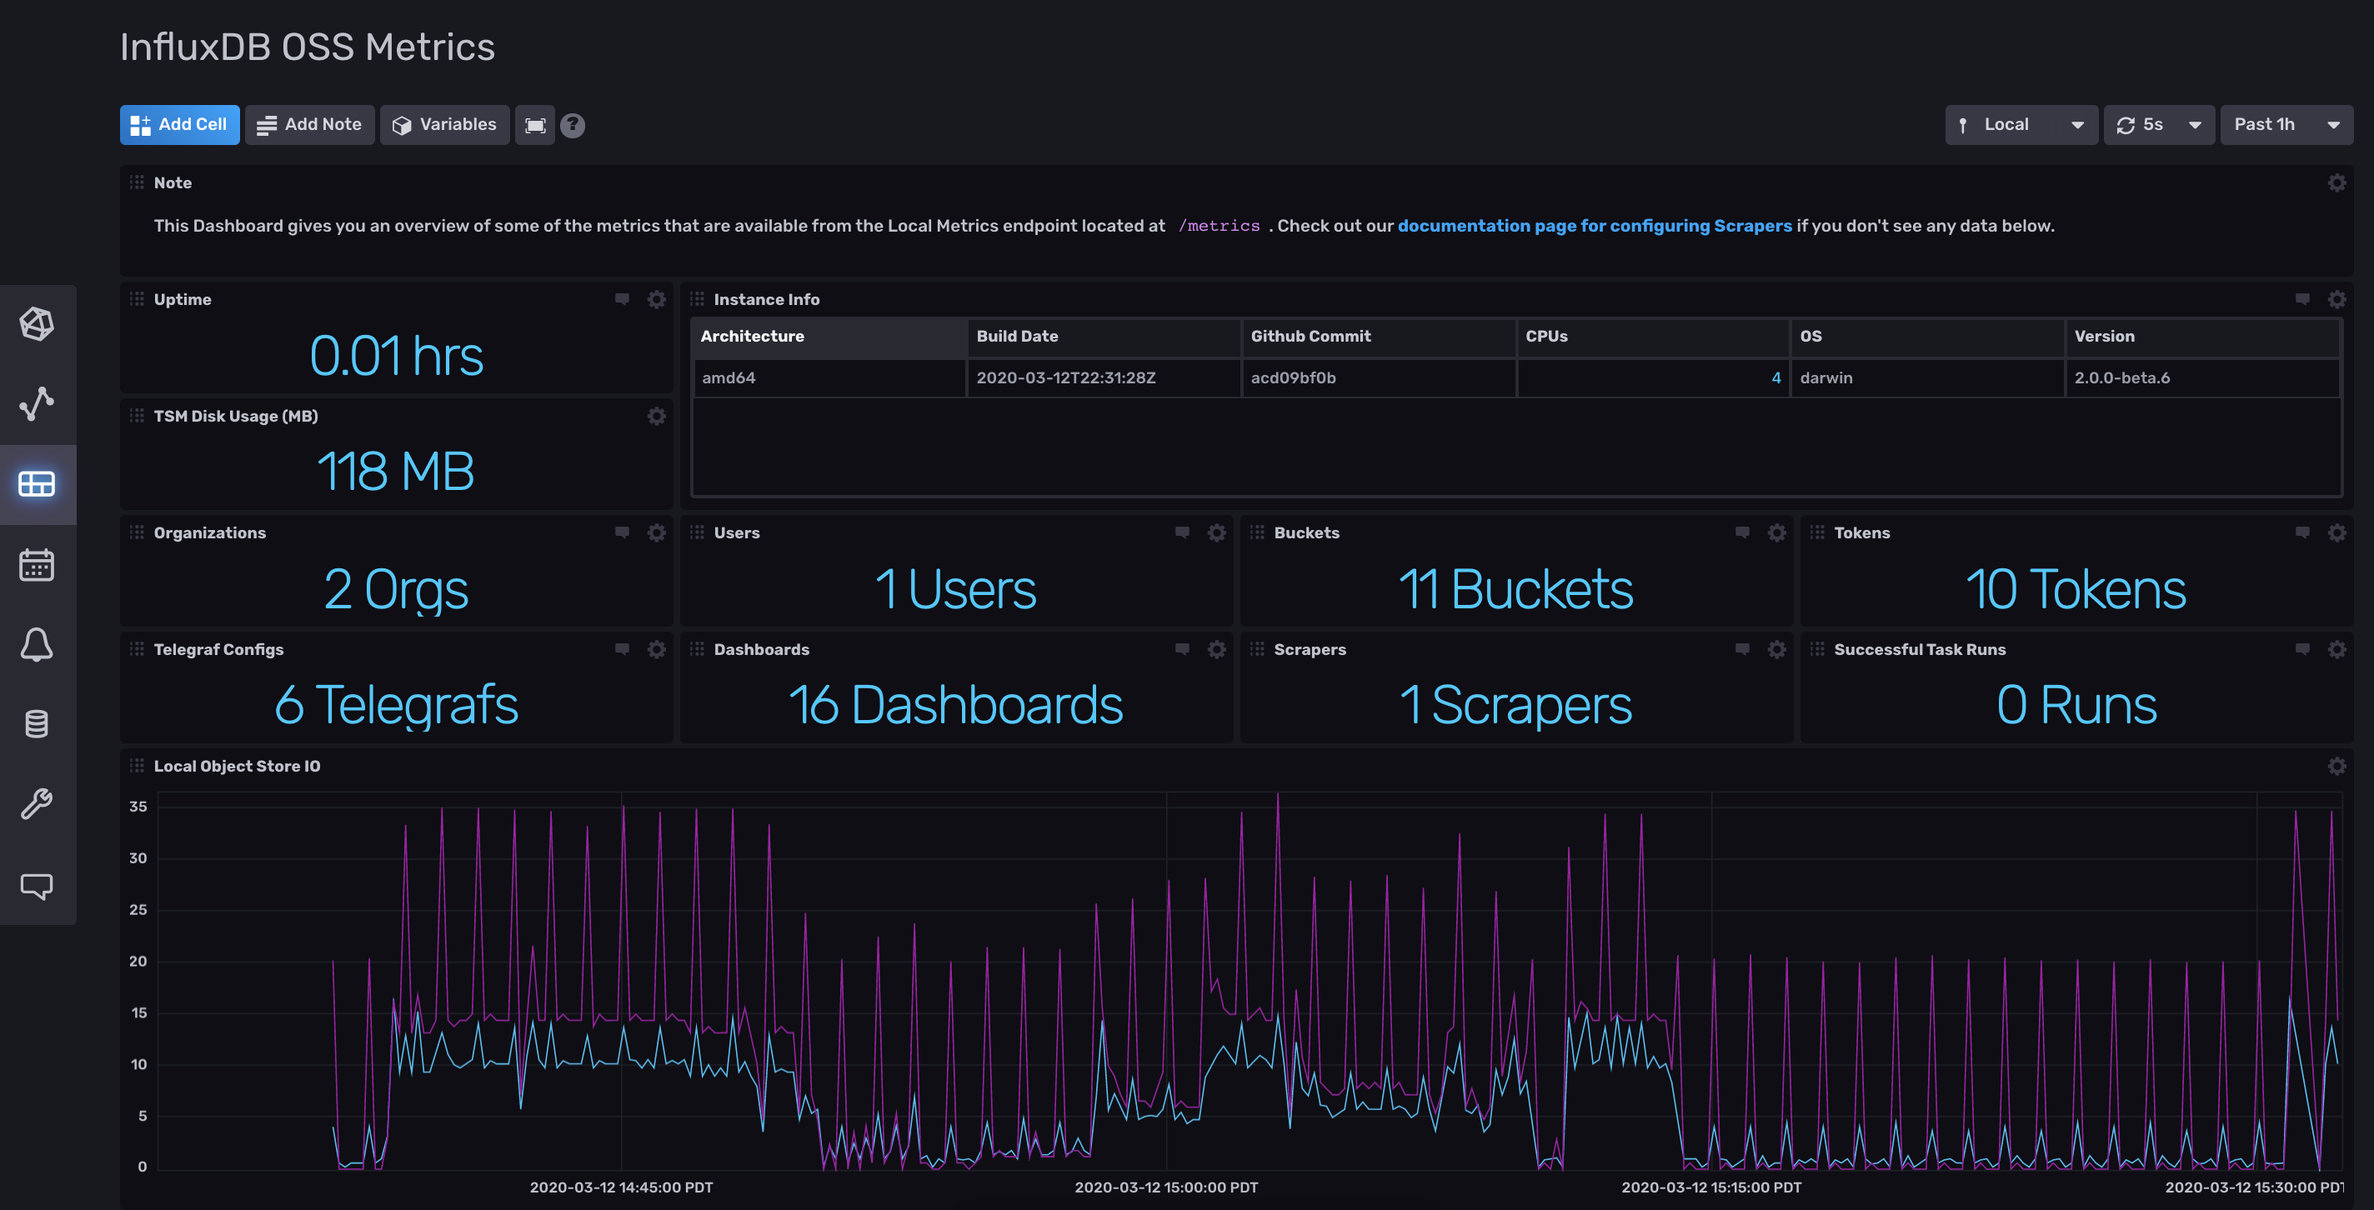
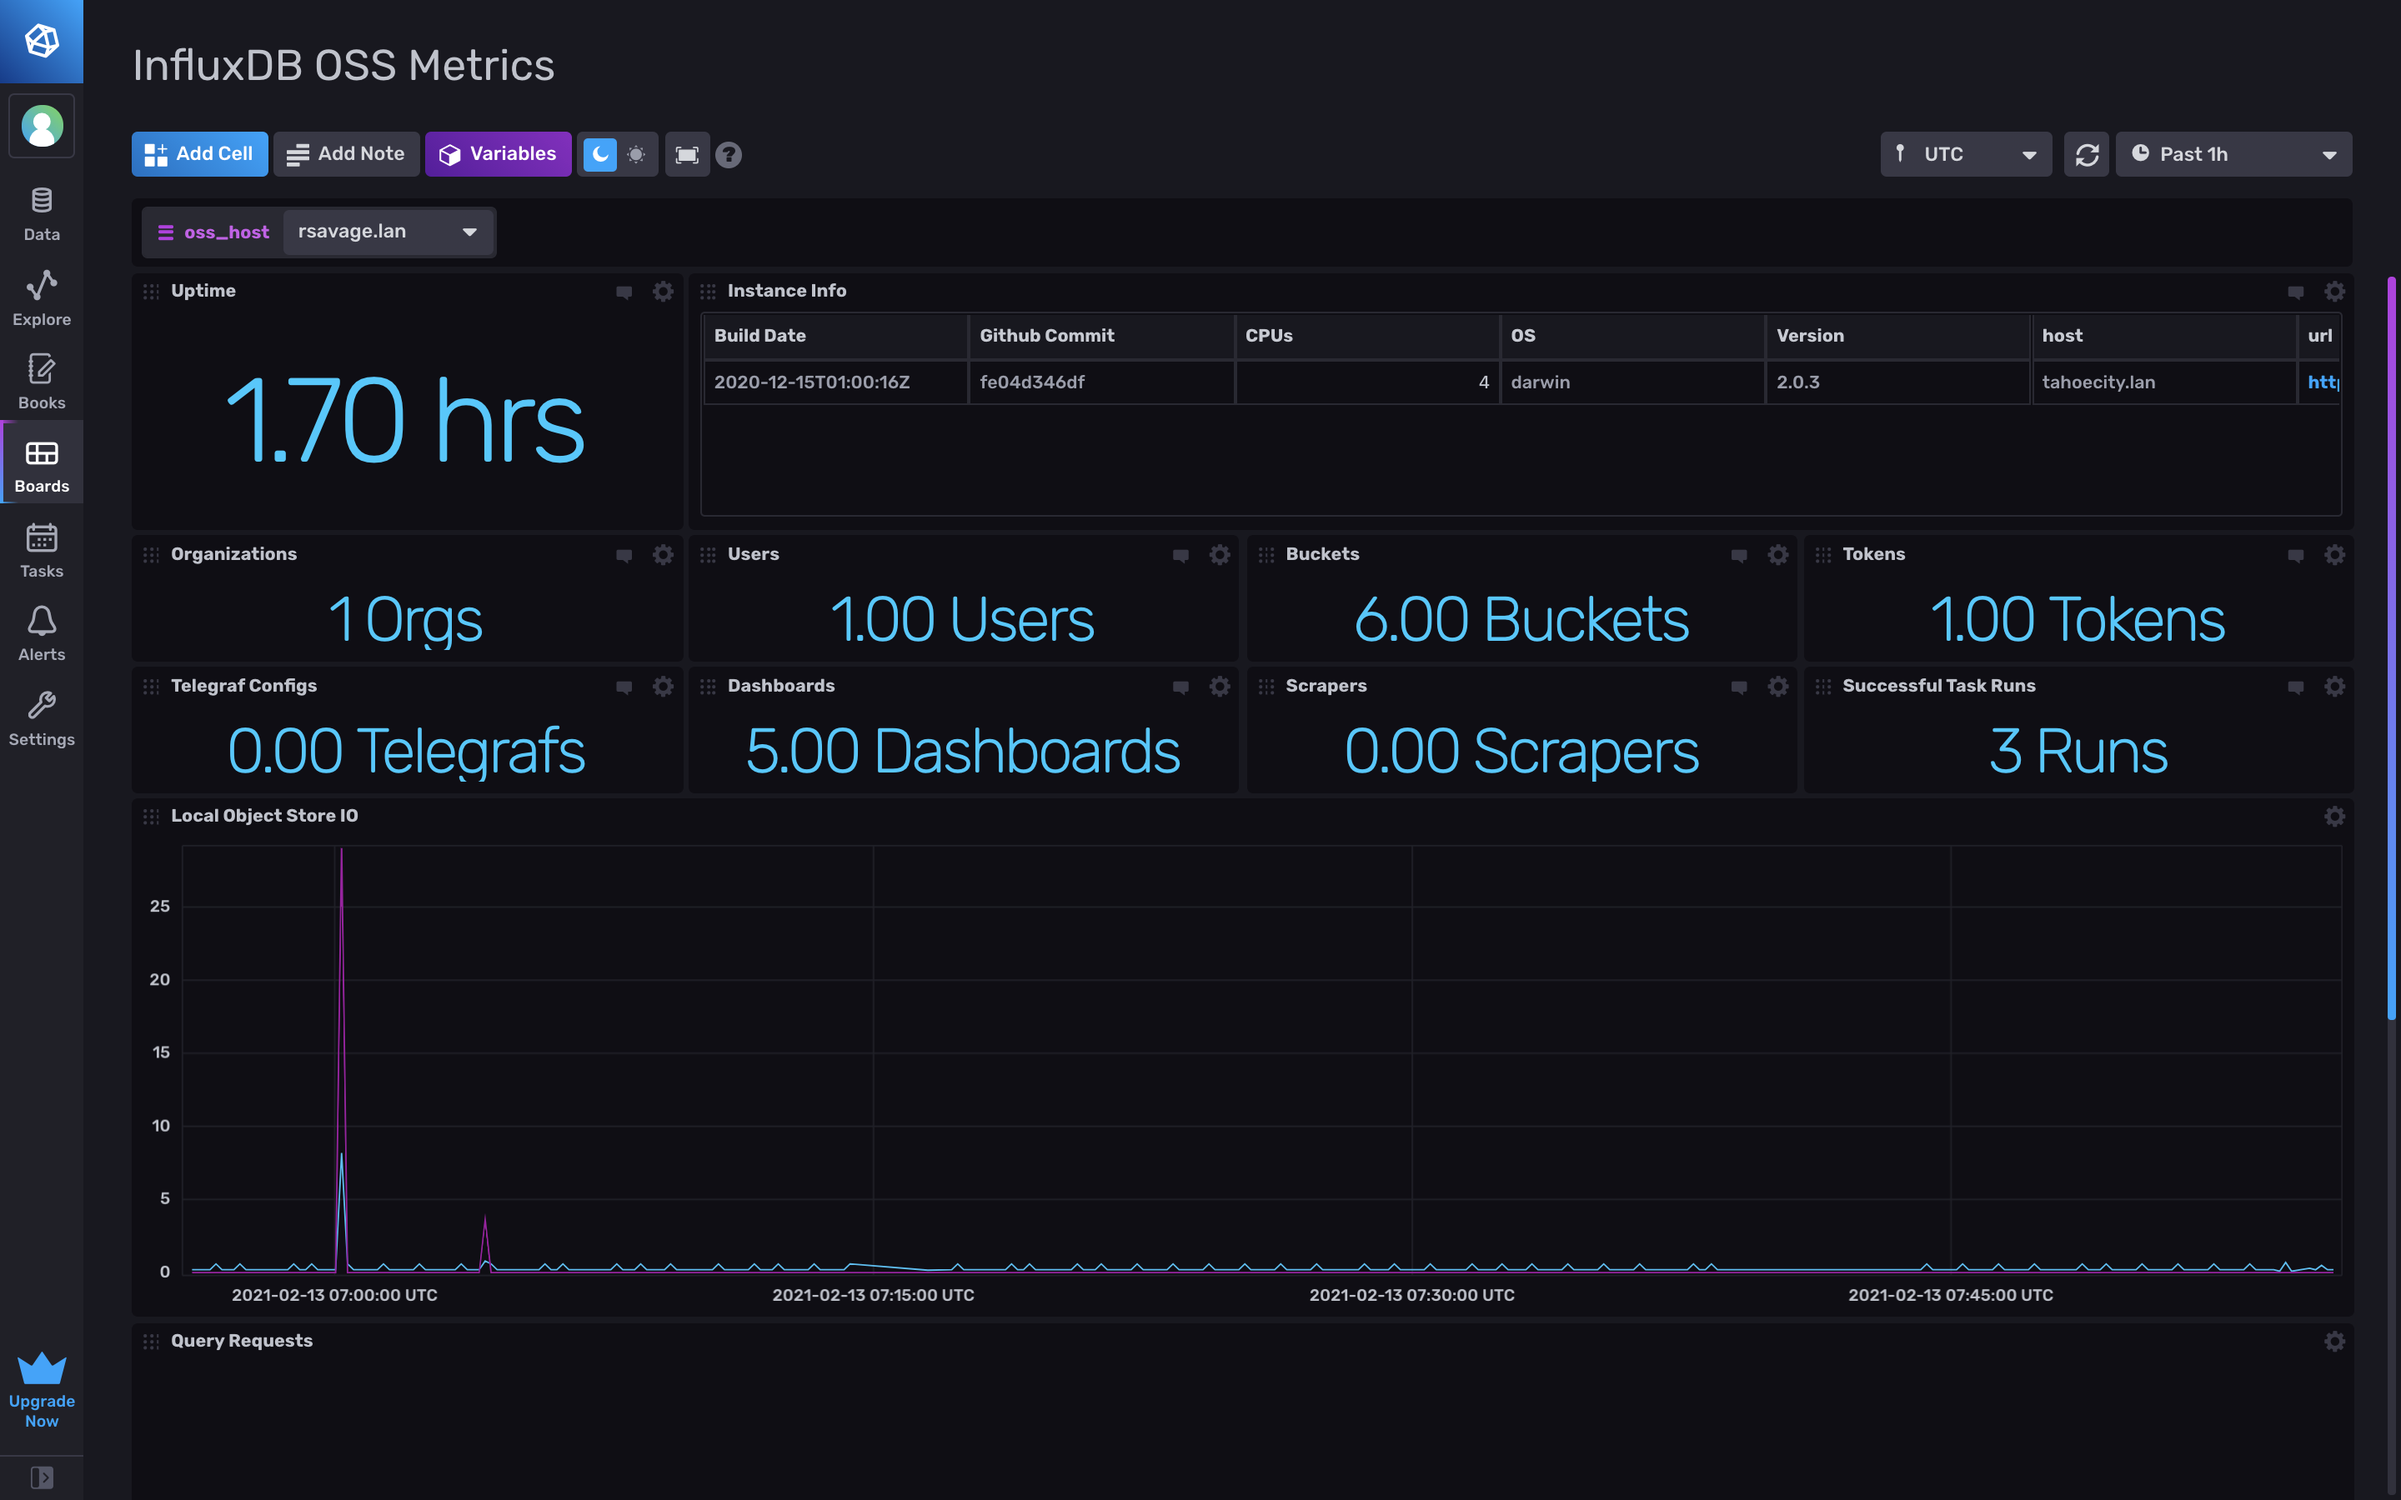
feat: updating to support oss to cloud monitoring

diff --git a/influxdb2_oss_metrics/readme.md b/influxdb2_oss_metrics/readme.md
@@ -2,7 +2,7 @@
 
 Provided by: InfluxData
 
-This InfluxDB Template can be used to monitor your already running InfluxDB 2 instance being collected by the built in prometheus scraper. This template is only compatible with the open source version of InfluxDB 2.
+This InfluxDB Template can be used to monitor your already running InfluxDB 2 instance being collected by the built in prometheus scraper or the included Telegraf configuration. This template can be used to monitor your locally running InfluxDB OSS instances in your free InfluxDB Cloud account.
 
 ![InfluxDB 2 Dashboard Screenshot](img/influxdb2-dashboard.png)
 
@@ -24,20 +24,32 @@ influx apply -u https://raw.githubusercontent.com/influxdata/community-templates
   - 1 Bucket: `oss_metrics`, 7d retention
   - 2 Labels: `InfluxDB2`,`prometheus`
   - 1 Dashboard: `InfluxDB OSS Metrics`
+  - 1 Telegraf Config: `Scrape InfluxDB OSS Metrics`
 
 ## Setup Instructions
 
   General instructions on using InfluxDB Templates can be found in the [use a template](../docs/use_a_template.md) document.
 
-  The data for the dashboard is populated by data collected by scraping the prometheus metrics endpoint in your OSS instance. The best way to set this up is to first follow the instructions for installing any template. That will create the labels, bucket, and dashboard for you.
+  The data for the dashboard can be populated by either the data collected by the built in prometheus scraper in your InfluxDB OSS instance or using the included Telegraf configuration. Using the Telegraf configuration allows you to use this template in your InfluxDB Cloud account to monitor your open source instances. The best way to set this up is to first follow the instructions for installing any template. That will create the labels, bucket, dashboard and Telegraf config for you.
 
-  Then, from the InfluxDB UI (usually found at http://localhost:9999 in your browser), configure a default scraper to write the scrape data from `http://localhost:9999/metrics` into the `oss_metrics` bucket. More information about scrapers can be found in our [documentation](https://v2.docs.influxdata.com/v2.0/write-data/scrape-data/).
+  Then, if you are installing this in your local InfluxDB OSS instance, open the InfluxDB UI (usually found at http://localhost:8086 in your browser) and configure a default scraper to write the scrape data from `http://localhost:8086/metrics` into the `oss_metrics` bucket. 
+
+  More information about scrapers can be found in our [documentation](https://v2.docs.influxdata.com/v2.0/write-data/scrape-data/).
 
 <img src="img/create-scraper.png" width="200" />
+  
+  If you are installing into your InfluxDB Cloud account, you would want to install a Telegraf agent on each host where InfluxDB OSS is running and start it with the included config. You will need to configure the following ENV variables for your Telegraf config to run:
+    
+    - INFLUX_URL: This is the url for your cloud account such as https://us-west-2-1.aws.cloud2.influxdata.com
+    - INFLUX_ORG: This is your organization name for your InfluxDB Cloud account.
+    - INFLUX_CLOUD_TOKEN: This is a token with write permissions to the `oss_metrics` bucket. You can create one in your browser by logging into your InfluxDB Cloud account and clicking Data > Tokens.
+    - INFLUX_TOKEN: This is a token that Telegraf would use to fetch the remote config from your InfluxDB Cloud account. It could be the same as the INFLUX_CLOUD_TOKEN above if you are using an all access token.
+
+  Once you set those ENV variables, you can use the setup instructions for the Telegraf config found in your InfluxDB Cloud account.
 
 ## Customizations
 
-  There are many more metrics collected than the ones displayed on the dashboard. Check out localhost:9999/metrics for a full list. They are also available by exploring the data populated in the `oss_metrics` bucket.
+  There are many more metrics collected than the ones displayed on the dashboard. Check out localhost:8086/metrics for a full list. They are also available by exploring the data populated in the `oss_metrics` bucket.
 
 ## Contact
 
